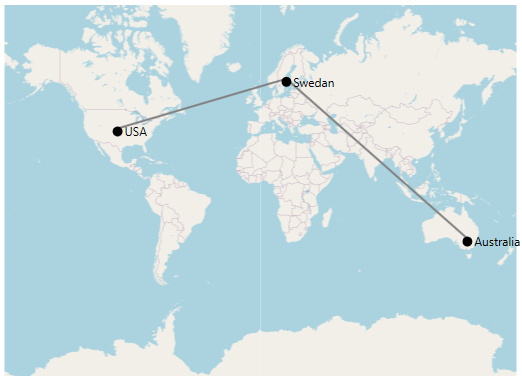
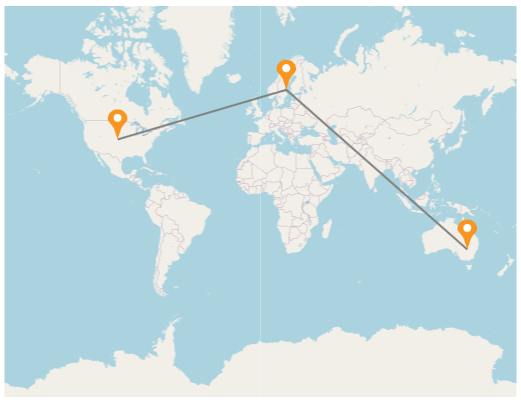
WPF-58386_UG_document_for_Maps_WPF_multiple_shape

diff --git a/uwp/Map/ShapeType.md b/uwp/Map/ShapeType.md
@@ -142,6 +142,15 @@ The polyline is a shape that has a dimension of 1. It is called a simple line if
  xmlns:maps="using:Syncfusion.UI.Xaml.Maps"
  xmlns:p="using:Windows.Foundation"
 ..
+
+        <ResourceDictionary>
+            <DataTemplate x:Key="markerTemplate">
+                <Grid>
+                    <Image Source="pin1.png" Height="30" Margin="0,-20,0,0" />
+                </Grid>
+            </DataTemplate>
+        </ResourceDictionary>
+..
     <Grid>
         <Grid.DataContext>
             <local:ViewModel/>
@@ -150,7 +159,10 @@ The polyline is a shape that has a dimension of 1. It is called a simple line if
             <maps:SfMap.Layers>
                 <maps:ImageryLayer  x:Name="layer">
                     <maps:ImageryLayer.SubShapeFileLayers>
-                        <maps:SubShapeFileLayer x:Name="subLayer" ShapeType="Polyline"  Markers="{Binding Models}">
+                        <maps:SubShapeFileLayer x:Name="subLayer" ShapeType="Polyline"  
+                                                MarkerVerticalAlignment="Near"
+                                                MarkerTemplate="{StaticResource markerTemplate}"
+                                                Markers="{Binding Models}">
                             <maps:SubShapeFileLayer.Points>
                                 <p:Point>39.6737, -100.5</p:Point>
                                 <p:Point>61.35, 18.131</p:Point>
@@ -186,6 +198,8 @@ The polyline is a shape that has a dimension of 1. It is called a simple line if
             subLayer.Points.Add(new Point(-32.259, 145.4214));
             subLayer.ShapeType = ShapeType.Polyline;
             subLayer.Markers = obj.Models;
+            subLayer.MarkerTemplate = Resources["markerTemplate"] as DataTemplate;
+            subLayer.MarkerVerticalAlignment = MarkerAlignment.Near;
             ShapeSetting subLayerSetting = new ShapeSetting();
             subLayerSetting.ShapeStrokeThickness = 2;
             subLayerSetting.ShapeFill = new SolidColorBrush(Colors.Gray);
@@ -310,7 +324,7 @@ We can provide input as the Geo points collection in sample to draw a multiple s
             <maps:SfMap.Layers>
                 <maps:ImageryLayer  x:Name="layer">
                     <maps:ImageryLayer.SubShapeFileLayers>
-                        <maps:SubShapeFileLayer x:Name="subLayer" Markers="{Binding Models}">
+                        <maps:SubShapeFileLayer x:Name="subLayer">
                             <maps:SubShapeFileLayer.MapElements>
 
                                 <maps:MapPolyline Stroke="Black">
@@ -320,15 +334,15 @@ We can provide input as the Geo points collection in sample to draw a multiple s
                                     </maps:MapPolyline.Points>
                                 </maps:MapPolyline>
 
-                                <maps:MapCircle Fill="Red">
+                                <maps:MapCircle Fill="Black">
                                     <maps:MapCircle.Center>
-                                        <p:Point>48.95, -122.68</p:Point>
+                                        <p:Point>61.35, 18.131</p:Point>
                                     </maps:MapCircle.Center>
                                 </maps:MapCircle>
 
-                                <maps:MapCircle Fill="Red">
+                                <maps:MapCircle Fill="Black">
                                     <maps:MapCircle.Center>
-                                        <p:Point>30.197, -102.6564</p:Point>
+                                        <p:Point>-32.259, 145.4214</p:Point>
                                     </maps:MapCircle.Center>
                                 </maps:MapCircle>
 
@@ -351,15 +365,14 @@ We can provide input as the Geo points collection in sample to draw a multiple s
 
     public partial class MyPage : ContentPage
     {
-        ViewModel obj = new ViewModel();
+       
         public MyPage()
         {
             InitializeComponent();
-            this.DataContext = obj;
+            
             SfMap maps = new SfMap();
             ImageryLayer layer = new ImageryLayer();
             SubShapeFileLayer subLayer = new SubShapeFileLayer();
-            subLayer.Markers = obj.Models;
 
             MapPolyline mapPolyline = new MapPolyline();
             mapPolyline.Stroke = new SolidColorBrush(Colors.Black);
@@ -371,13 +384,13 @@ We can provide input as the Geo points collection in sample to draw a multiple s
             subLayer.MapElements.Add(mapPolyline);
 
             MapCircle mapCircle = new MapCircle();
-            mapCircle.Center = new Point(48.95, -122.68);
-            mapCircle.Fill = new SolidColorBrush(Colors.Red);
+            mapCircle.Center = new Point(61.35, 18.131);
+            mapCircle.Fill = new SolidColorBrush(Colors.Black);
             subLayer.MapElements.Add(mapCircle);
 
             mapCircle = new MapCircle();
-            mapCircle.Center = new Point(30.197, -102.6564);
-            mapCircle.Fill = new SolidColorBrush(Colors.Red);
+            mapCircle.Center = new Point(-32.259, 145.4214);
+            mapCircle.Fill = new SolidColorBrush(Colors.Black);
             subLayer.MapElements.Add(mapCircle);
 
             mapCircle = new MapCircle();
@@ -390,24 +403,7 @@ We can provide input as the Geo points collection in sample to draw a multiple s
             this.Content = maps;
        }
     }
-
-    public class ViewModel
-    {
-        public ObservableCollection<Model> Models { get; set; }
-        public ViewModel()
-        {
-            this.Models = new ObservableCollection<Model>();
-            this.Models.Add(new Model() { Label = "Swedan ", Latitude = "61.35", Longitude = "18.131" });
-            this.Models.Add(new Model() { Label = "Australia ", Latitude = "-32.259", Longitude = "145.4214" });
-        }
-    }
-
-    public class Model
-    {
-        public string Label { get; set; }
-        public string Longitude { get; set; }
-        public string Latitude { get; set; }
-    }
+    
 {% endhighlight %}
 
 {% endtabs %}
